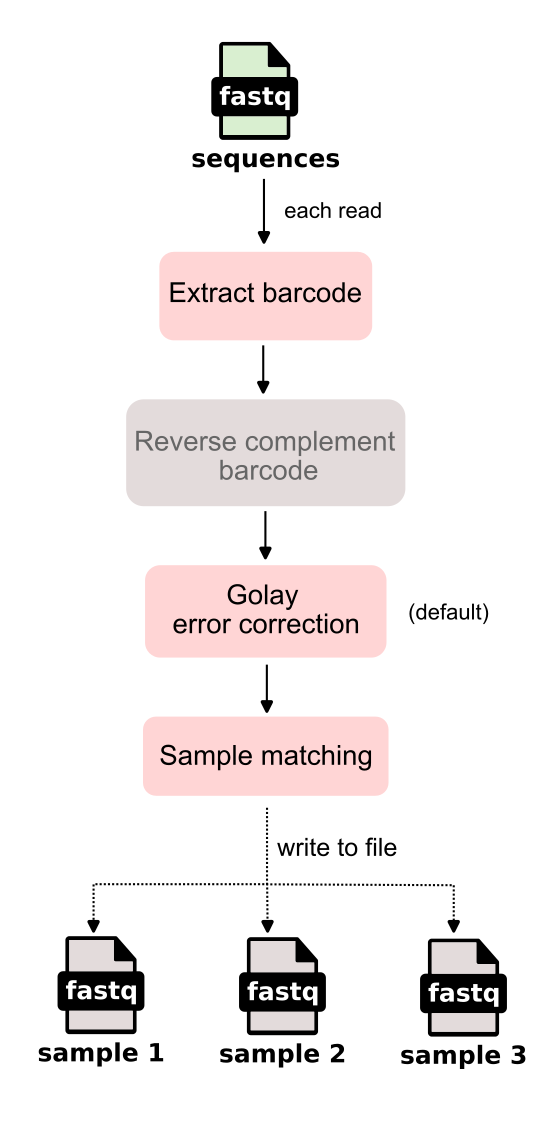
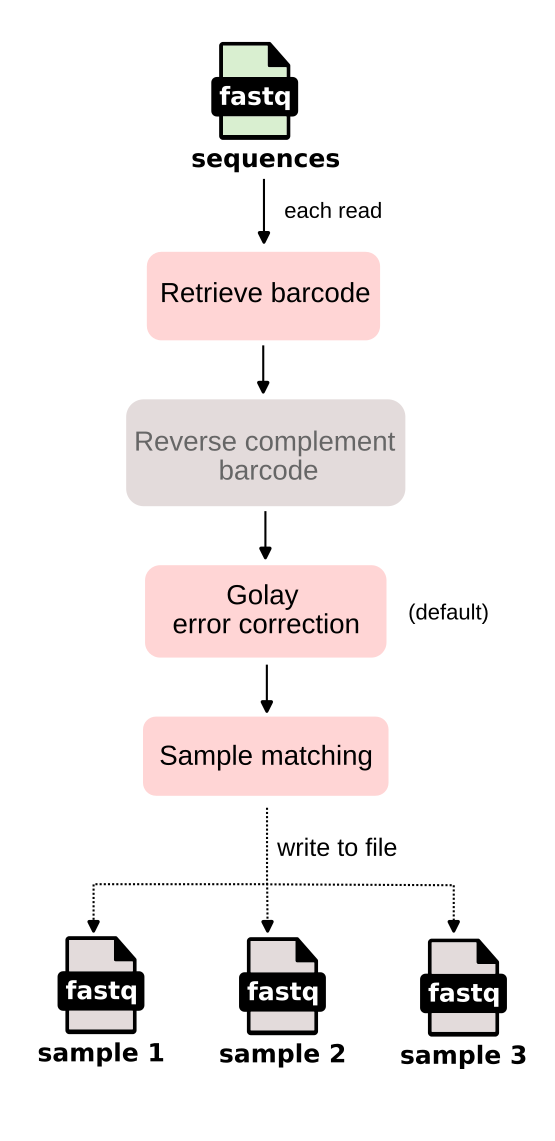
update revise description of demux workflow

diff --git a/docs/demultiplexing.md b/docs/demultiplexing.md
@@ -31,8 +31,16 @@ Base on the sequencing label on a read (in sequences fastq file), the original s
 :align: center
 ```
 
-Sequencing reads are processed one by one from the input FASTQ file. For each read, the barcode sequence is first extracted from the beginning of the barcode read. If required, the barcode is reverse complemented to match the orientation of the reference barcodes.
+Sequencing reads are processed one by one from the input FASTQ file. For each read, the associated barcode sequence is retrieved. Although, the step "Reverse complement barcode" was not performed in this command (`demux emp-single`), more information can be found in [](#reverse-complement).
 
-Next, optional Golay error correction is applied to the barcode, allowing correction of sequencing errors (up to three mismatches) and improving robustness in sample identification. The corrected (or raw) barcode is then matched against a predefined barcode-to-sample mapping.
+Next, Golay error correction is applied by default to the barcode, allowing correction of sequencing errors in barcode sequence (up to three mismatches) and improving robustness in sample identification (read more in [](#golay-correct)). 
 
-If a match is found, the corresponding read is assigned to that sample and written to its output FASTQ file. Reads that do not match any known barcode are discarded. Over the course of processing, reads are thus separated into multiple per-sample FASTQ files, each representing an individual sample from the original multiplexed dataset.
+The corrected barcode is then matched against a predefined barcode-to-sample mapping. If a match is found, the corresponding read is assigned to that sample and written to its output FASTQ file. Reads that do not match any known barcode are discarded. 
+
+Over the course of processing, reads are thus separated into multiple per-sample FASTQ files, each representing an individual sample from the original multiplexed dataset.
+
+(reverse-complement)=
+## Reverse complement barcode
+
+(golay-correct)=
+## Golay error correction
